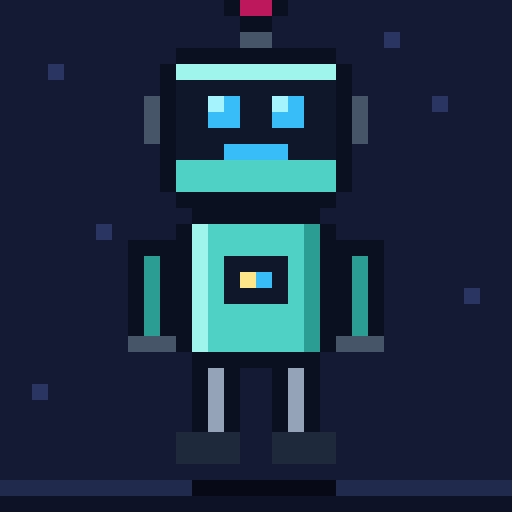
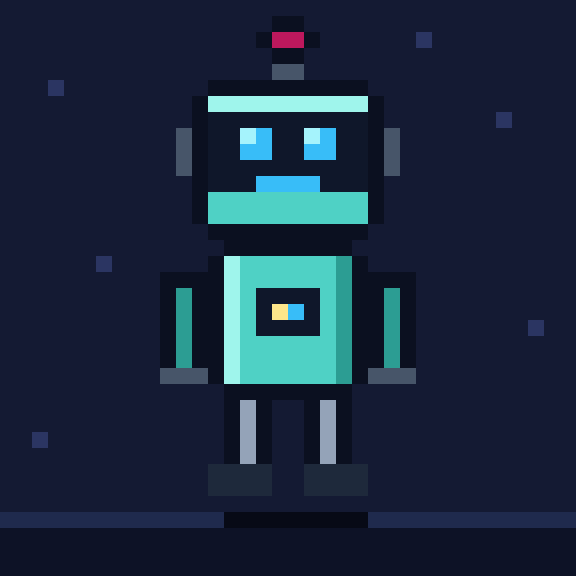
fix(fal-self-animate): anchor player contents, keep player square, pad sprite in samples

diff --git a/apps/fal-self-animate/scripts/render-samples.ts b/apps/fal-self-animate/scripts/render-samples.ts
@@ -8,7 +8,8 @@
  */
 import { join } from "node:path";
 
-const GRID = 32;
+const GRID = 36; // 32x32 sprite area + 2px padding on each side
+const PAD = 2;
 const SCALE = 16;
 const SIZE = GRID * SCALE;
 const FPS = 12;
@@ -45,7 +46,12 @@ const C = {
 
 class Canvas {
   buf = new Uint8Array(SIZE * SIZE * 3);
+  /** offset applied to every draw call; the robot is drawn in a padded 32x32 frame */
+  ox = 0;
+  oy = 0;
   px(gx: number, gy: number, c: RGB) {
+    gx += this.ox;
+    gy += this.oy;
     if (gx < 0 || gy < 0 || gx >= GRID || gy >= GRID) return;
     for (let y = gy * SCALE; y < (gy + 1) * SCALE; y++) {
       let i = (y * SIZE + gx * SCALE) * 3;
@@ -75,16 +81,18 @@ class Canvas {
 type Preset = "walk" | "wave" | "idle";
 
 function drawBackground(cv: Canvas) {
-  cv.rect(0, 0, GRID, 30, C.bgTop);
-  cv.rect(0, 30, GRID, 2, C.bgBottom);
-  cv.rect(0, 30, GRID, 1, C.floor);
+  const floorY = 30 + PAD;
+  cv.rect(0, 0, GRID, floorY, C.bgTop);
+  cv.rect(0, floorY, GRID, GRID - floorY, C.bgBottom);
+  cv.rect(0, floorY, GRID, 1, C.floor);
   for (const [sx, sy] of [
-    [3, 4],
-    [27, 6],
-    [6, 14],
-    [29, 18],
-    [24, 2],
-    [2, 24],
+    [3, 5],
+    [31, 7],
+    [6, 16],
+    [33, 20],
+    [26, 2],
+    [2, 27],
+    [18, 1],
   ])
     cv.px(sx, sy, C.star);
 }
@@ -210,6 +218,8 @@ function drawRobot(cv: Canvas, preset: Preset, t: number) {
 function renderFrame(preset: Preset, t: number): Uint8Array {
   const cv = new Canvas();
   drawBackground(cv);
+  cv.ox = PAD;
+  cv.oy = PAD;
   drawRobot(cv, preset, t);
   return cv.buf;
 }

diff --git a/apps/fal-self-animate/src/styles.css b/apps/fal-self-animate/src/styles.css
@@ -412,9 +412,9 @@ code {
 .player {
   position: relative;
   aspect-ratio: 1;
-  max-height: 640px;
-  margin: 0 auto;
   width: 100%;
+  max-width: 640px;
+  margin: 0 auto;
   border-radius: var(--radius);
   border: 1px solid var(--line);
   background:
@@ -431,6 +431,8 @@ code {
 }
 
 .player video {
+  position: absolute;
+  inset: 0;
   width: 100%;
   height: 100%;
   object-fit: contain;
@@ -440,9 +442,8 @@ code {
 }
 
 .placeholder {
-  position: relative;
-  width: 100%;
-  height: 100%;
+  position: absolute;
+  inset: 0;
   display: grid;
   place-items: center;
 }
@@ -475,8 +476,11 @@ code {
 .error {
   position: absolute;
   bottom: 18px;
+  left: 50%;
+  transform: translateX(-50%);
   margin: 0;
   padding: 8px 14px;
+  max-width: calc(100% - 36px);
   border-radius: 999px;
   background: rgba(11, 16, 32, 0.85);
   border: 1px solid var(--line);
